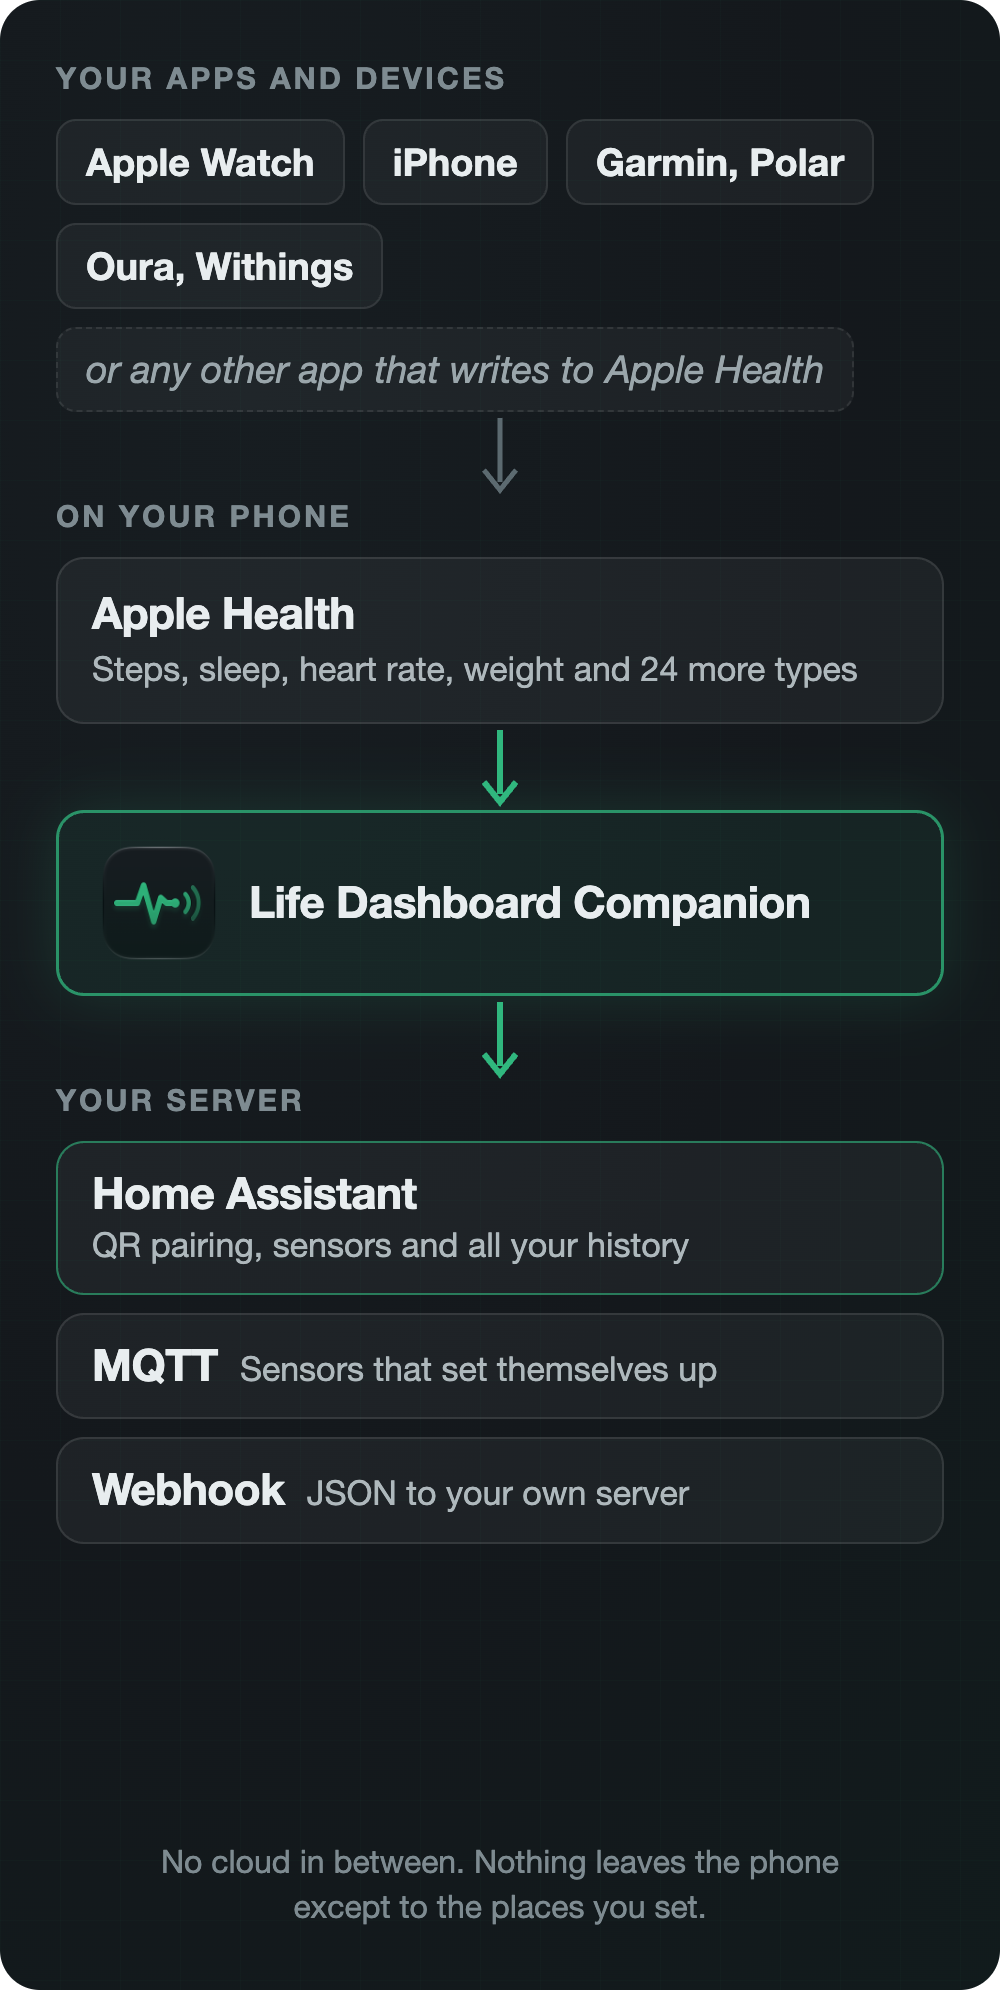
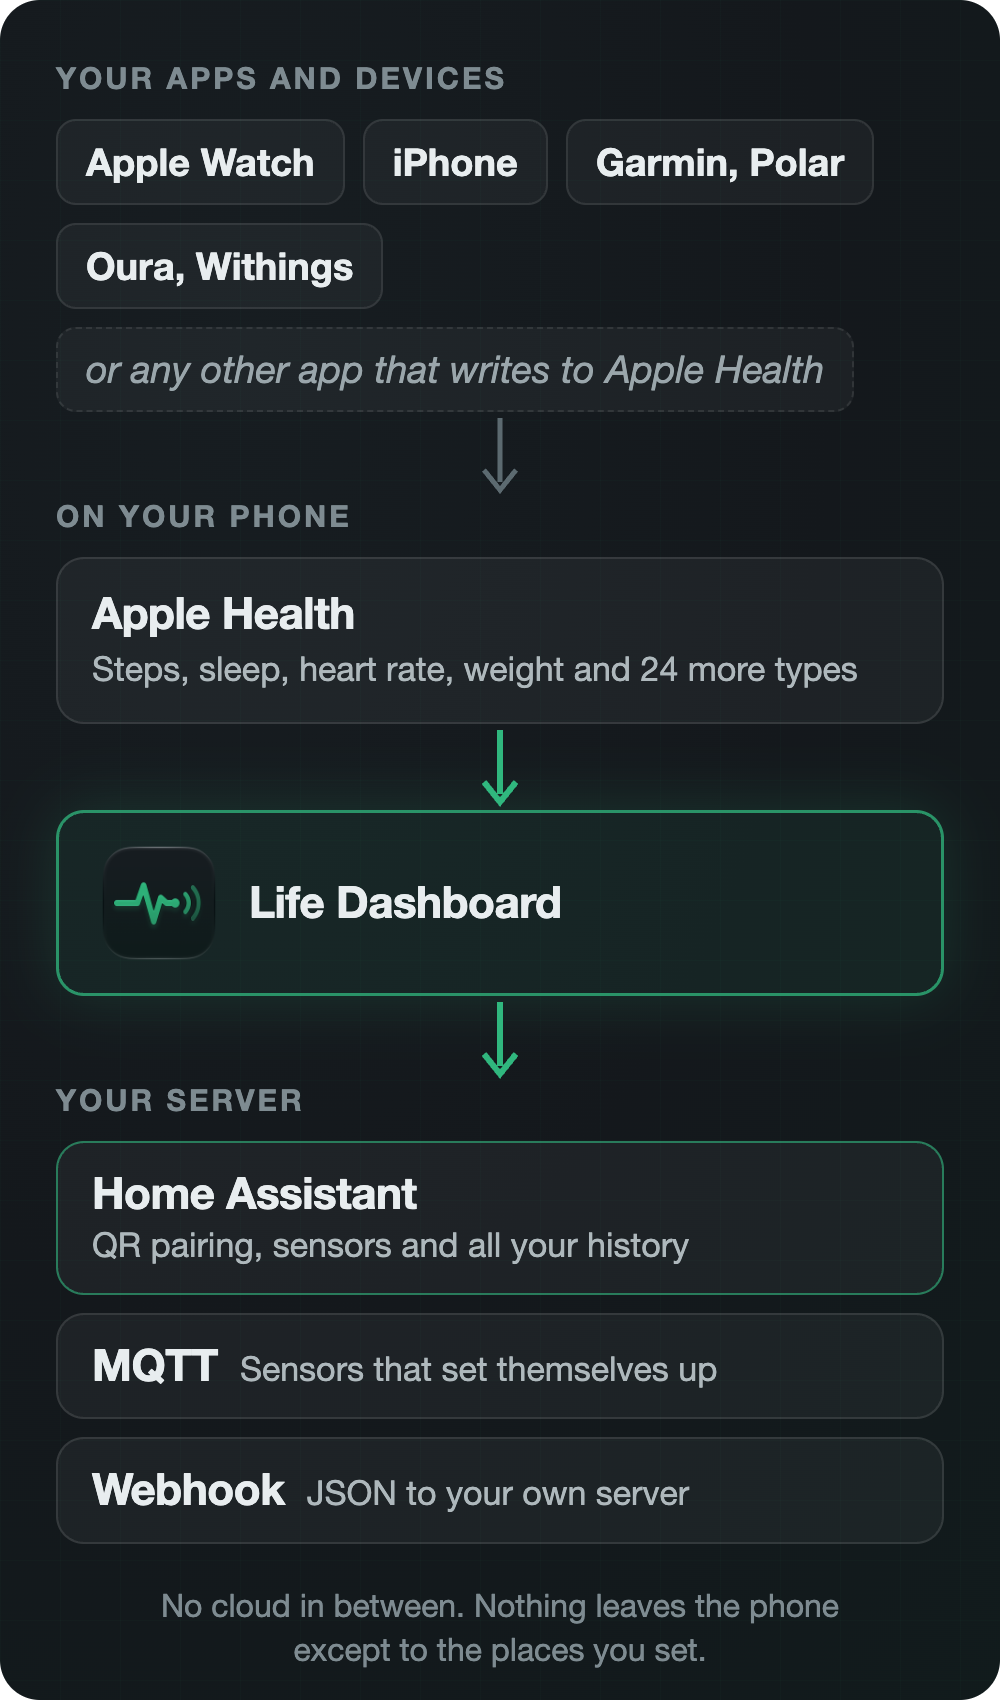
fix: Call the app Life Dashboard everywhere

diff --git a/LifeDashboardCompanion/Screens/LD/AboutPrivacyScreen.swift b/LifeDashboardCompanion/Screens/LD/AboutPrivacyScreen.swift
@@ -4,7 +4,7 @@ import SwiftUI
 /// at `AboutLinks.privacy`, which say the same in more words. Change the three together. The
 /// texts are resources so the tests can hold them to the limits in the code.
 enum PrivacyPolicyText {
-    static let intro: LocalizedStringResource = "Life Dashboard Companion is a self-hosting tool. It reads health data on this iPhone and sends it only to servers you set up yourself. The app sends nothing to the developer, who never receives, stores or sees your health data."
+    static let intro: LocalizedStringResource = "Life Dashboard is a self-hosting tool. It reads health data on this iPhone and sends it only to servers you set up yourself. The app sends nothing to the developer, who never receives, stores or sees your health data."
     static let reads: LocalizedStringResource = "Apple Health data, only for the types you switch on and only after you allow them in the Health access sheet. With Backfill, also older records for the range you pick. When you delete a record in Apple Health, the next sync reports its id so your server can remove it too."
     static let writes: LocalizedStringResource = "Nothing. The app only asks Apple Health for read access."
     static let permissions: LocalizedStringResource = "Apple Health, read only, for the types you switch on. Camera, only while the pairing scanner is open: frames are decoded on the iPhone and are never stored or sent. Local Network, to reach a webhook server or MQTT broker on your home network. Notifications, for failed syncs, lost payloads and syncs that stay away for days: they are shown on this iPhone and sent nowhere."

diff --git a/LifeDashboardCompanion/Screens/LD/AboutHomeScreen.swift b/LifeDashboardCompanion/Screens/LD/AboutHomeScreen.swift
@@ -170,7 +170,7 @@ struct AboutHomeScreen: View {
                     .monospacedDigit()
             } else {
                 // The isolates keep the version one left-to-right run inside a right-to-left sentence.
-                Text("Life Dashboard Companion, version \("\u{2066}\(version)\u{2069}"). Made by Owen Vogelaar.")
+                Text("Life Dashboard, version \("\u{2066}\(version)\u{2069}"). Made by Owen Vogelaar.")
                     .font(LDType.noteSmall)
                     .foregroundStyle(LDTheme.muted)
                     .lineSpacing(LDType.lineSpacing(size: 13, lineHeight: 18))

diff --git a/LifeDashboardCompanionTests/PairingLinkTests.swift b/LifeDashboardCompanionTests/PairingLinkTests.swift
@@ -323,7 +323,7 @@ final class TestPingTests: XCTestCase {
         XCTAssertEqual(Set(object.keys), ["test", "message", "timestamp", "app_version", "source"])
         XCTAssertEqual(object["test"] as? Bool, true)
         XCTAssertEqual(object["source"] as? String, "healthkit_ios")
-        XCTAssertEqual(object["message"] as? String, "Test ping from Life Dashboard Companion")
+        XCTAssertEqual(object["message"] as? String, "Test ping from Life Dashboard")
         XCTAssertNotNil(ISO8601DateFormatter().date(from: try XCTUnwrap(object["timestamp"] as? String)))
     }
 }

diff --git a/LifeDashboardCompanion/Screens/LD/SyncOutcome.swift b/LifeDashboardCompanion/Screens/LD/SyncOutcome.swift
@@ -22,7 +22,7 @@ enum TestPing {
     static func body() -> Data? {
         let payload: [String: Any] = [
             "test": true,
-            "message": "Test ping from Life Dashboard Companion",
+            "message": "Test ping from Life Dashboard",
             "timestamp": Date().iso8601String,
             "app_version": Bundle.main.infoDictionary?["CFBundleShortVersionString"] as? String ?? "1.0.0",
             "source": "healthkit_ios"

diff --git a/docs/brand/how-it-works-phone.html b/docs/brand/how-it-works-phone.html
@@ -85,7 +85,7 @@
 
   <div class="box app">
     <img src="../readme-icon.png" alt="">
-    <h3>Life Dashboard Companion</h3>
+    <h3>Life Dashboard</h3>
   </div>
 
   <div class="arrow"><svg viewBox="0 0 60 86"><path d="M30 6 V70" stroke="#30B77E" stroke-width="6" fill="none"/><path d="M14 58 L30 78 L46 58" stroke="#30B77E" stroke-width="6" fill="none"/></svg></div>

diff --git a/docs/brand/banner.html b/docs/brand/banner.html
@@ -76,7 +76,7 @@
   <div class="grid"></div>
 
   <div class="text">
-    <h1>Life Dashboard<span class="accent">Companion</span></h1>
+    <h1>Life Dashboard<span class="accent">for iPhone</span></h1>
     <div class="tagline">Your health data, your server.</div>
   </div>
 

diff --git a/docs/brand/how-it-works.html b/docs/brand/how-it-works.html
@@ -117,7 +117,7 @@
 
   <div class="box app">
     <img src="../readme-icon.png" alt="">
-    <h3>Life Dashboard<br>Companion</h3>
+    <h3>Life Dashboard</h3>
   </div>
 
   <div class="box dest ha"><h3>Home Assistant</h3><p>QR pairing, sensors and all your history</p></div>

diff --git a/docs/settings-backup.md b/docs/settings-backup.md
@@ -77,9 +77,19 @@ The same JSON as the Android app, with `"platform": "ios"` added so the importer
 
 ```json
 {
-  "app_version" : "1.4.0",
-  "exported_at" : "2026-09-30T12:00:00Z",
+  "app_version" : "1.12.0",
+  "exported_at" : "2026-11-20T12:00:00Z",
   "health" : {
+    "destinations" : [
+      {
+        "format" : "default",
+        "headers" : {
+
+        },
+        "id" : "3f2a9c1e-5b7d-4e80-9a16-2c4d6e8f0b12",
+        "url" : "https://example.com/health"
+      }
+    ],
     "quiet_from" : "23:00",
     "quiet_to" : "07:00",
     "sync_days" : "MONDAY,TUESDAY,WEDNESDAY,THURSDAY,FRIDAY,SATURDAY,SUNDAY",
@@ -122,6 +132,7 @@ The same JSON as the Android app, with `"platform": "ios"` added so the importer
 }
 ```
 
+- This is an export without secrets. `destinations` lists every webhook address with its own `id`, `format` (always `default`, the JSON payload) and `headers`; with secrets, an entry also carries its headers and its `signing_secret`. The section's `webhook_urls` repeats the addresses for a reader from before `destinations`.
 - `theme` is the app's appearance, `system`, `light` or `dark`, the same key as the Android app, so the choice moves between the two apps in either direction. A file without it, from before 1.8.0, or with a value this version does not know, leaves the choice as it is.
 - Custom headers and the broker host are checked by the same rules as the destination sheets: a header name made of the characters HTTP allows, a value of plain ASCII characters and tabs (no line break, control character or letter such as é, as on Android), a broker host that is a host name or an IP address.
 - A header that breaks them is left out and the rest of the file is imported, as the Android app does. The preview names each header left out, never its value; add it again on that destination's sheet. When none of the file's headers can be sent, the file counts as one without headers, so the iPhone keeps its own.

diff --git a/CHANGELOG.md b/CHANGELOG.md
@@ -4,6 +4,12 @@ All notable changes to this project are documented in this file. The format is b
 
 ## [Unreleased]
 
+### Changed
+
+- The app is called Life Dashboard everywhere now: on the About and privacy pages and in the test
+  ping, where it still said Life Dashboard Companion. The name in the App Store stays as it is,
+  and so does the name of the MQTT device in Home Assistant.
+
 ## [1.12.0] - 2026-11-19
 
 ### Changed
